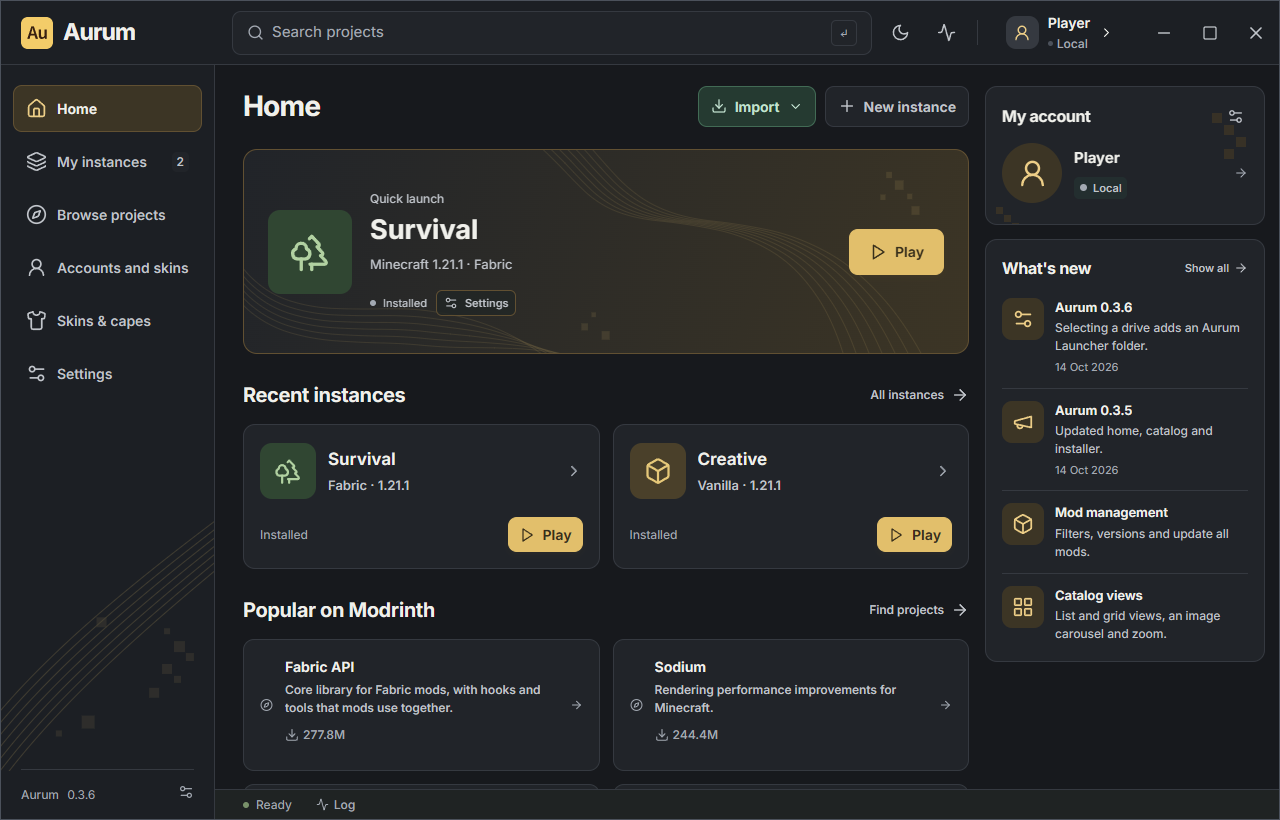
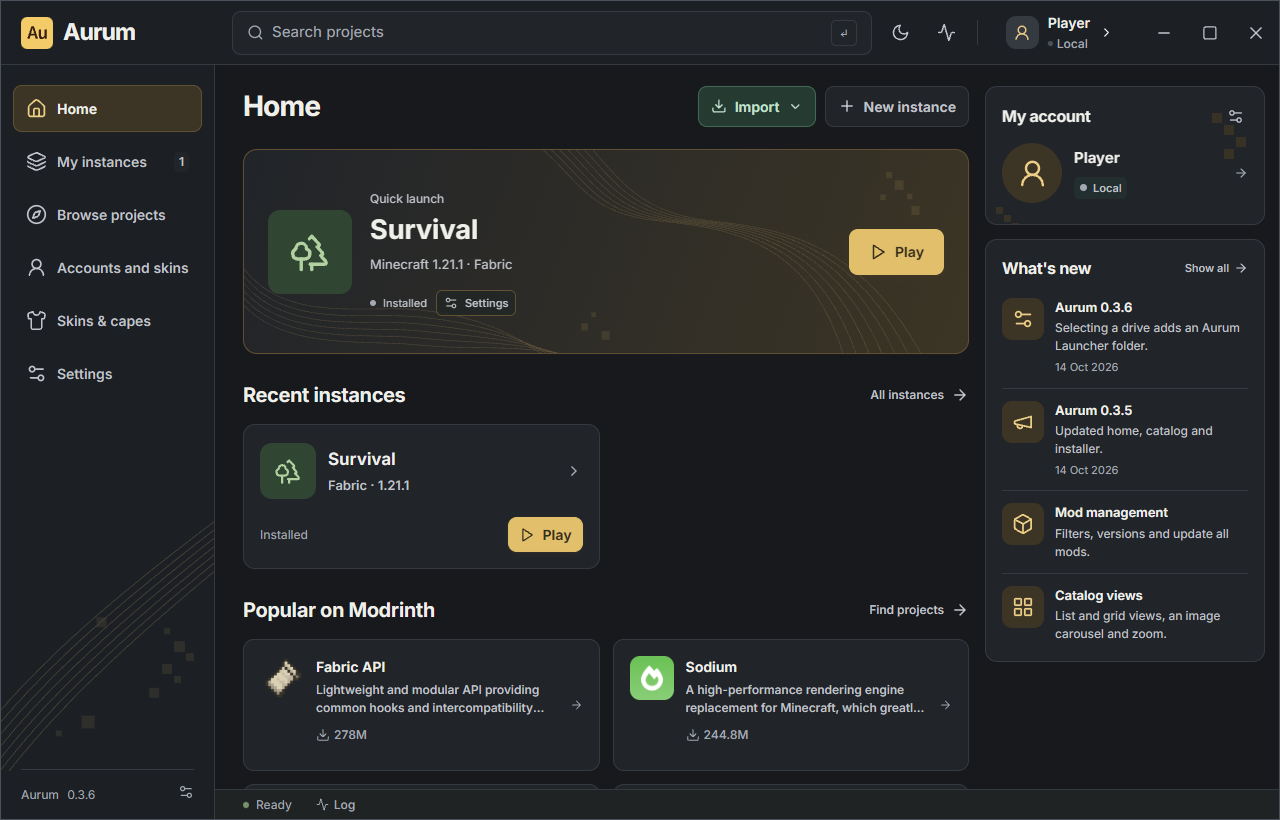
style(site): expand loaders and refresh English launcher previews

diff --git a/src/styles.css b/src/styles.css
@@ -514,45 +514,63 @@ p {
   border-top: 1px solid var(--border);
   border-bottom: 1px solid var(--border);
   text-align: center;
-  padding: 22px 0 25px;
+  padding: 30px 0 34px;
 }
 .loaders-label {
-  font-size: 10px;
+  font-size: 12px;
   color: var(--muted);
 }
 .loaders > div {
-  display: flex;
+  display: grid;
+  grid-template-columns: repeat(5, minmax(0, 1fr));
   align-items: center;
   justify-content: center;
-  gap: 70px;
-  margin-top: 20px;
+  gap: 32px;
+  max-width: 1020px;
+  margin: 25px auto 0;
 }
 .loaders > div > span {
   display: flex;
+  flex-direction: column;
   align-items: center;
-  gap: 11px;
+  gap: 14px;
   color: var(--secondary);
   font-weight: 600;
-  font-size: 15px;
+  font-size: 18px;
   letter-spacing: -0.3px;
 }
 .loader-item {
   transition: color 0.2s;
 }
+.loader-mark {
+  width: 104px;
+  height: 104px;
+  display: grid;
+  place-items: center;
+  background: var(--surface);
+  border: 1px solid var(--border);
+  border-radius: 18px;
+  transition:
+    background 0.25s,
+    border-color 0.25s;
+}
+.loader-item:hover .loader-mark {
+  border-color: var(--accent);
+  background: var(--hover);
+}
 .loader-item:hover {
   color: var(--text);
 }
 .loader-icon {
-  width: 24px;
-  height: 24px;
+  width: 72px;
+  height: 72px;
   flex-shrink: 0;
   object-fit: contain;
   filter: grayscale(1);
-  opacity: 0.7;
+  opacity: 0.9;
   transition:
     filter 0.25s,
-    opacity 0.25s,
-    transform 0.25s;
+    opacity 0.25s;
 }
 .loader-icon-vanilla,
 .loader-icon-fabric {
@@ -573,7 +591,6 @@ p {
 .loader-item:hover .loader-icon {
   filter: none;
   opacity: 1;
-  transform: translateY(-2px);
 }
 .loader-item:hover .loader-icon-forge {
   filter: brightness(0);
@@ -586,23 +603,28 @@ p {
 .features {
   display: grid;
   grid-template-columns: repeat(4, 1fr);
-  padding: 44px 0 67px;
+  padding: 30px 8px;
+  margin-top: 24px;
+  margin-bottom: 28px;
+  background: var(--surface);
+  border: 1px solid var(--border);
+  border-radius: 16px;
 }
 .features article {
-  padding: 0 29px;
+  padding: 0 24px;
   border-right: 1px solid var(--border);
   position: relative;
   transition: transform 0.3s;
 }
 .features article:first-child {
-  padding-left: 0;
+  padding-left: 24px;
 }
 .features article:last-child {
   border: 0;
-  padding-right: 0;
+  padding-right: 24px;
 }
 .features article:hover {
-  transform: translateY(-4px);
+  transform: none;
 }
 .feature-icon {
   width: 43px;
@@ -615,26 +637,18 @@ p {
   color: var(--accent);
   transition: background 0.2s;
 }
-.feature-number {
-  position: absolute;
-  top: 15px;
-  right: 27px;
-  font-size: 9px;
-  font-family: monospace;
-  color: var(--muted);
-}
 .features h2 {
-  font-size: 15px;
+  font-size: 16px;
   letter-spacing: -0.3px;
   font-weight: 600;
-  margin-top: 21px;
+  margin-top: 17px;
 }
 .features p {
-  font-size: 12px;
-  line-height: 1.9;
+  font-size: 13px;
+  line-height: 1.75;
   color: var(--secondary);
   margin-top: 10px;
-  max-width: 225px;
+  max-width: 265px;
 }
 .interface-section {
   padding: 46px 0 88px;
@@ -693,7 +707,7 @@ p {
   background: var(--gold-soft);
 }
 .gallery-screen {
-  padding: 30px 8%;
+  padding: 16px;
   background: radial-gradient(
     ellipse at 50% 40%,
     var(--gold-soft),
@@ -712,7 +726,7 @@ p {
 }
 .gallery-screen img {
   width: 100%;
-  aspect-ratio: 1280/820;
+  height: auto;
   object-fit: contain;
   background: var(--bg);
   animation: fade-in 0.4s ease;
@@ -801,6 +815,17 @@ p {
   gap: 30px;
   padding: 43px 44px;
   margin-bottom: 67px;
+}
+.download-pattern {
+  position: absolute;
+  inset: 0;
+  width: 100%;
+  height: 100%;
+  stroke: var(--gold);
+  stroke-width: 1.2;
+  opacity: 0.22;
+  shape-rendering: geometricPrecision;
+  pointer-events: none;
 }
 .download-section > div,
 .download-section > a {
@@ -1020,7 +1045,7 @@ body:has(dialog[open]) {
     padding: 11px 13px;
   }
   .loaders > div {
-    gap: 45px;
+    gap: 22px;
   }
   .features article {
     padding: 0 22px;
@@ -1107,15 +1132,15 @@ body:has(dialog[open]) {
     bottom: 35px;
   }
   .loaders > div {
-    gap: 30px;
+    gap: 16px;
   }
   .features {
     grid-template-columns: 1fr 1fr;
-    padding-bottom: 40px;
+    padding: 26px;
     row-gap: 33px;
   }
   .features article {
-    padding: 0 25px;
+    padding: 0 18px;
   }
   .features article:nth-child(odd) {
     padding-left: 0;
@@ -1134,7 +1159,7 @@ body:has(dialog[open]) {
     font-size: 32px;
   }
   .gallery-screen {
-    padding: 20px 4%;
+    padding: 12px;
   }
   .project-section {
     gap: 35px;
@@ -1311,26 +1336,30 @@ body:has(dialog[open]) {
     left: 17px;
   }
   .loaders {
-    padding: 19px 0 20px;
+    padding: 24px 0;
   }
   .loaders-label {
-    font-size: 9px;
+    font-size: 11px;
   }
   .loaders > div {
-    gap: 14px;
-    flex-wrap: wrap;
-    margin-top: 17px;
+    gap: 8px;
+    margin-top: 20px;
   }
   .loaders > div > span {
-    font-size: 11px;
-    gap: 6px;
+    font-size: 12px;
+    gap: 10px;
+  }
+  .loader-mark {
+    width: 56px;
+    height: 56px;
+    border-radius: 12px;
   }
   .loader-icon {
-    width: 18px;
-    height: 18px;
+    width: 40px;
+    height: 40px;
   }
   .features {
-    padding: 32px 0 28px;
+    padding: 22px 18px;
     row-gap: 30px;
   }
   .features article {
@@ -1338,10 +1367,6 @@ body:has(dialog[open]) {
   }
   .features article:nth-child(odd) {
     padding-right: 18px;
-  }
-  .feature-number {
-    right: 18px;
-    font-size: 8px;
   }
   .feature-icon {
     width: 37px;
@@ -1384,7 +1409,7 @@ body:has(dialog[open]) {
     font-size: 10px;
   }
   .gallery-screen {
-    padding: 14px 12px;
+    padding: 8px;
   }
   .gallery-caption {
     font-size: 8px;

diff --git a/src/main.tsx b/src/main.tsx
@@ -1,7 +1,6 @@
 import React, { useEffect, useRef, useState } from "react";
 import { createRoot } from "react-dom/client";
 import {
-  ArrowDown,
   ArrowDownToLine,
   ArrowRight,
   ArrowUpRight,
@@ -18,7 +17,7 @@ import {
   X,
 } from "lucide-react";
 import "@fontsource-variable/inter";
-import { HomePattern, TerrainPattern, SidebarPattern } from "./Patterns";
+import { DownloadPattern, TerrainPattern } from "./Patterns";
 import "./styles.css";
 
 type Language = "ru" | "en";
@@ -362,11 +361,6 @@ function App() {
               </div>
               <Check size={17} className="tag-check" />
             </div>
-            <a className="visual-caption" href="#interface">
-              <span className="status-dot" />
-              {t.preview}
-              <ArrowDown size={14} />
-            </a>
           </div>
         </section>
         <section className="loaders container" aria-label={t.loaders}>
@@ -380,15 +374,17 @@ function App() {
               { name: "Quilt", icon: "quilt.svg" },
             ].map(({ name, icon }) => (
               <span key={name} className="loader-item">
-                <img
-                  className={`loader-icon loader-icon-${name.toLowerCase()}`}
-                  src={asset(`loaders/${icon}`)}
-                  alt=""
-                  width="24"
-                  height="24"
-                  aria-hidden="true"
-                />
-                {name}
+                <span className="loader-mark">
+                  <img
+                    className={`loader-icon loader-icon-${name.toLowerCase()}`}
+                    src={asset(`loaders/${icon}`)}
+                    alt=""
+                    width="72"
+                    height="72"
+                    aria-hidden="true"
+                  />
+                </span>
+                <span className="loader-name">{name}</span>
               </span>
             ))}
           </div>
@@ -405,7 +401,6 @@ function App() {
                 <span className="feature-icon">
                   <Icon size={23} strokeWidth={1.6} />
                 </span>
-                <span className="feature-number">0{i + 1}</span>
                 <h2>{title}</h2>
                 <p>{text}</p>
               </article>
@@ -533,8 +528,7 @@ function App() {
           </div>
         </section>
         <section className="download-section container reveal">
-          <HomePattern />
-          <SidebarPattern />
+          <DownloadPattern />
           <div>
             <span className="eyebrow">AURUM / WINDOWS</span>
             <h2>{t.ready}</h2>

diff --git a/src/Patterns.tsx b/src/Patterns.tsx
@@ -1,3 +1,23 @@
+export function DownloadPattern() {
+  return (
+    <svg
+      className="download-pattern"
+      viewBox="0 0 1320 240"
+      preserveAspectRatio="none"
+      fill="none"
+      aria-hidden="true"
+    >
+      {[0, 1, 2, 3].map((line) => (
+        <path
+          key={line}
+          vectorEffect="non-scaling-stroke"
+          d={`M ${520 + line * 24} -25 C ${680 + line * 18} 80, ${810 + line * 13} 34, ${980 + line * 12} 110 S ${1180 + line * 20} 203, ${1210 + line * 28} 275`}
+        />
+      ))}
+    </svg>
+  );
+}
+
 export function TerrainPattern() {
   return (
     <svg

diff --git a/ASSETS.md b/ASSETS.md
@@ -2,8 +2,10 @@
 
 - `public/assets/aurum.svg`: approved Aurum logo from the launcher repository.
 - `src/Patterns.tsx`: original procedural vector patterns copied from the launcher's `src/components/TerrainPattern.tsx`.
-- `public/assets/demo-home-light.png` and `demo-home-dark.png`: newly captured English launcher UI with isolated demonstration fixtures (Player account, Survival and Creative instances). No personal launcher data is read.
-- Gallery content and skin screenshots: existing launcher UI test screenshots in `.test-data/screenshots/`, showing demonstration data in light and dark themes.
+- `public/assets/demo-home-light.png` and `demo-home-dark.png`: newly captured English launcher UI with isolated demonstration fixtures (Player account and Survival instance). Project names, descriptions and icons come from public Modrinth metadata. No personal launcher data is read.
+- `public/assets/content-light.png` and `content-dark.png`: English content-manager previews captured at 1440 × 960, showing the complete table with project icons.
+- `public/assets/skins-light.png` and `skins-dark.png`: English skin-library previews captured at 1440 × 1410, showing the full character, saved skins and all nine defaults. All screenshots use isolated demonstration data in both themes.
+- Project icons visible inside screenshots belong to their respective projects: [Fabric API](https://modrinth.com/mod/fabric-api), [Sodium](https://modrinth.com/mod/sodium), [Iris](https://modrinth.com/mod/iris), [Lithium](https://modrinth.com/mod/lithium), and [Entity Culling](https://modrinth.com/mod/entityculling). They are obtained from the projects' public Modrinth icon URLs and are not relicensed under this site's license.
 - `public/assets/modrinth.svg`: [official Modrinth logo](https://github.com/modrinth/code/blob/main/apps/frontend/src/assets/images/logo.svg). Branding belongs to Rinth, Inc.; see [upstream notice](https://github.com/modrinth/code/blob/main/apps/frontend/COPYING.md).
 - `public/assets/curseforge.svg`: original CurseForge mark from [Simple Icons](https://github.com/simple-icons/simple-icons/blob/develop/icons/curseforge.svg), distributed under [CC0](https://github.com/simple-icons/simple-icons/blob/develop/LICENSE.md). Trademark belongs to its owner.
 - Inter Variable: bundled by `@fontsource-variable/inter`, under the SIL Open Font License 1.1 (included in `public/assets/INTER-LICENSE.txt`).
